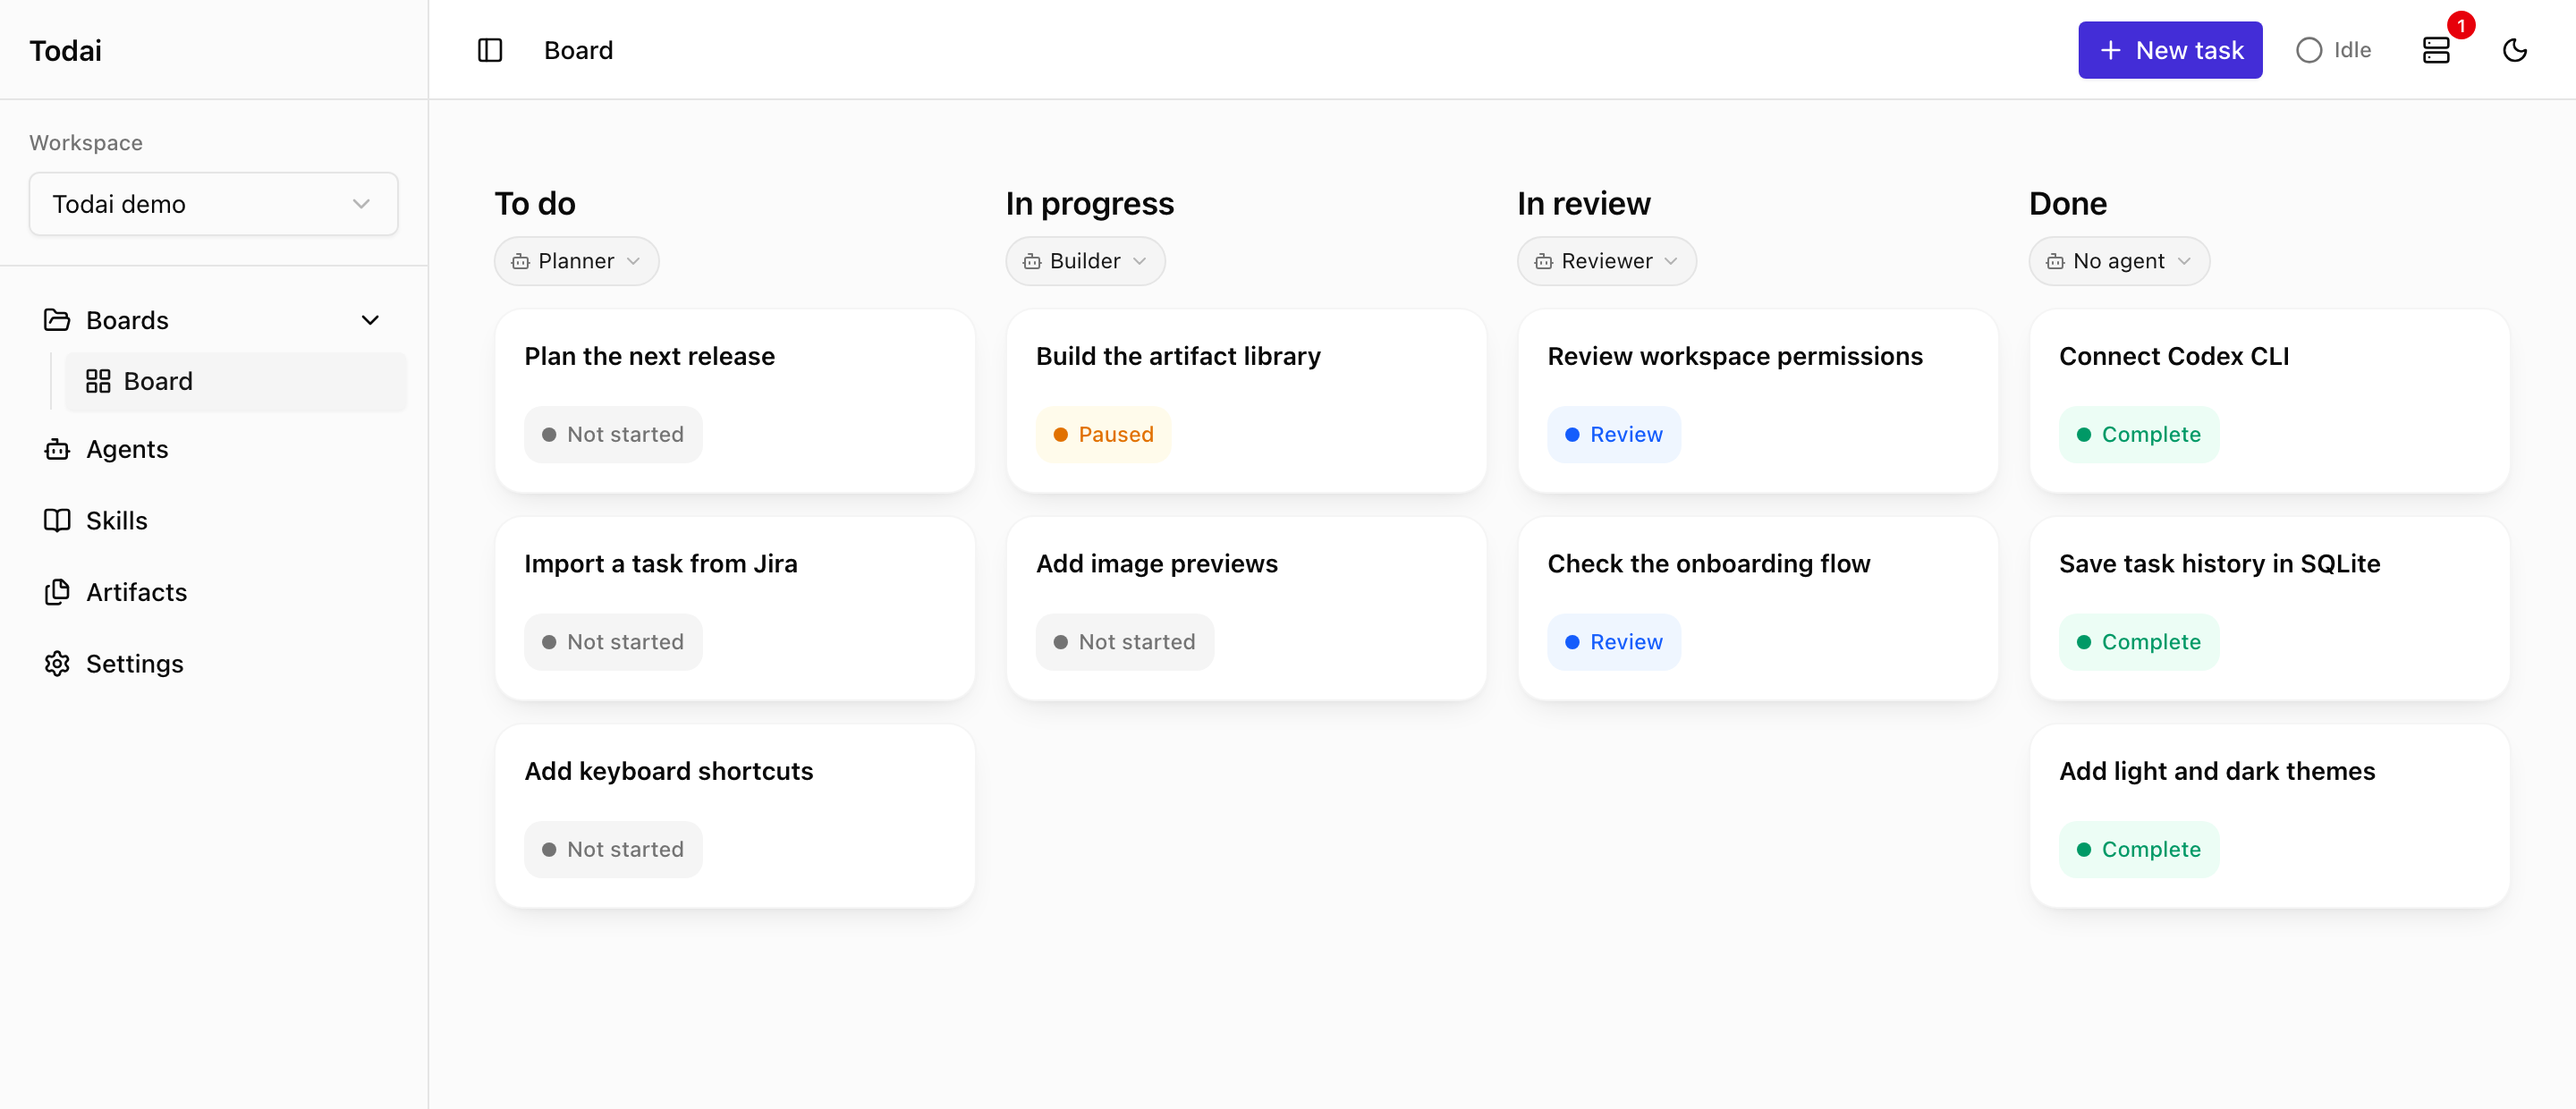
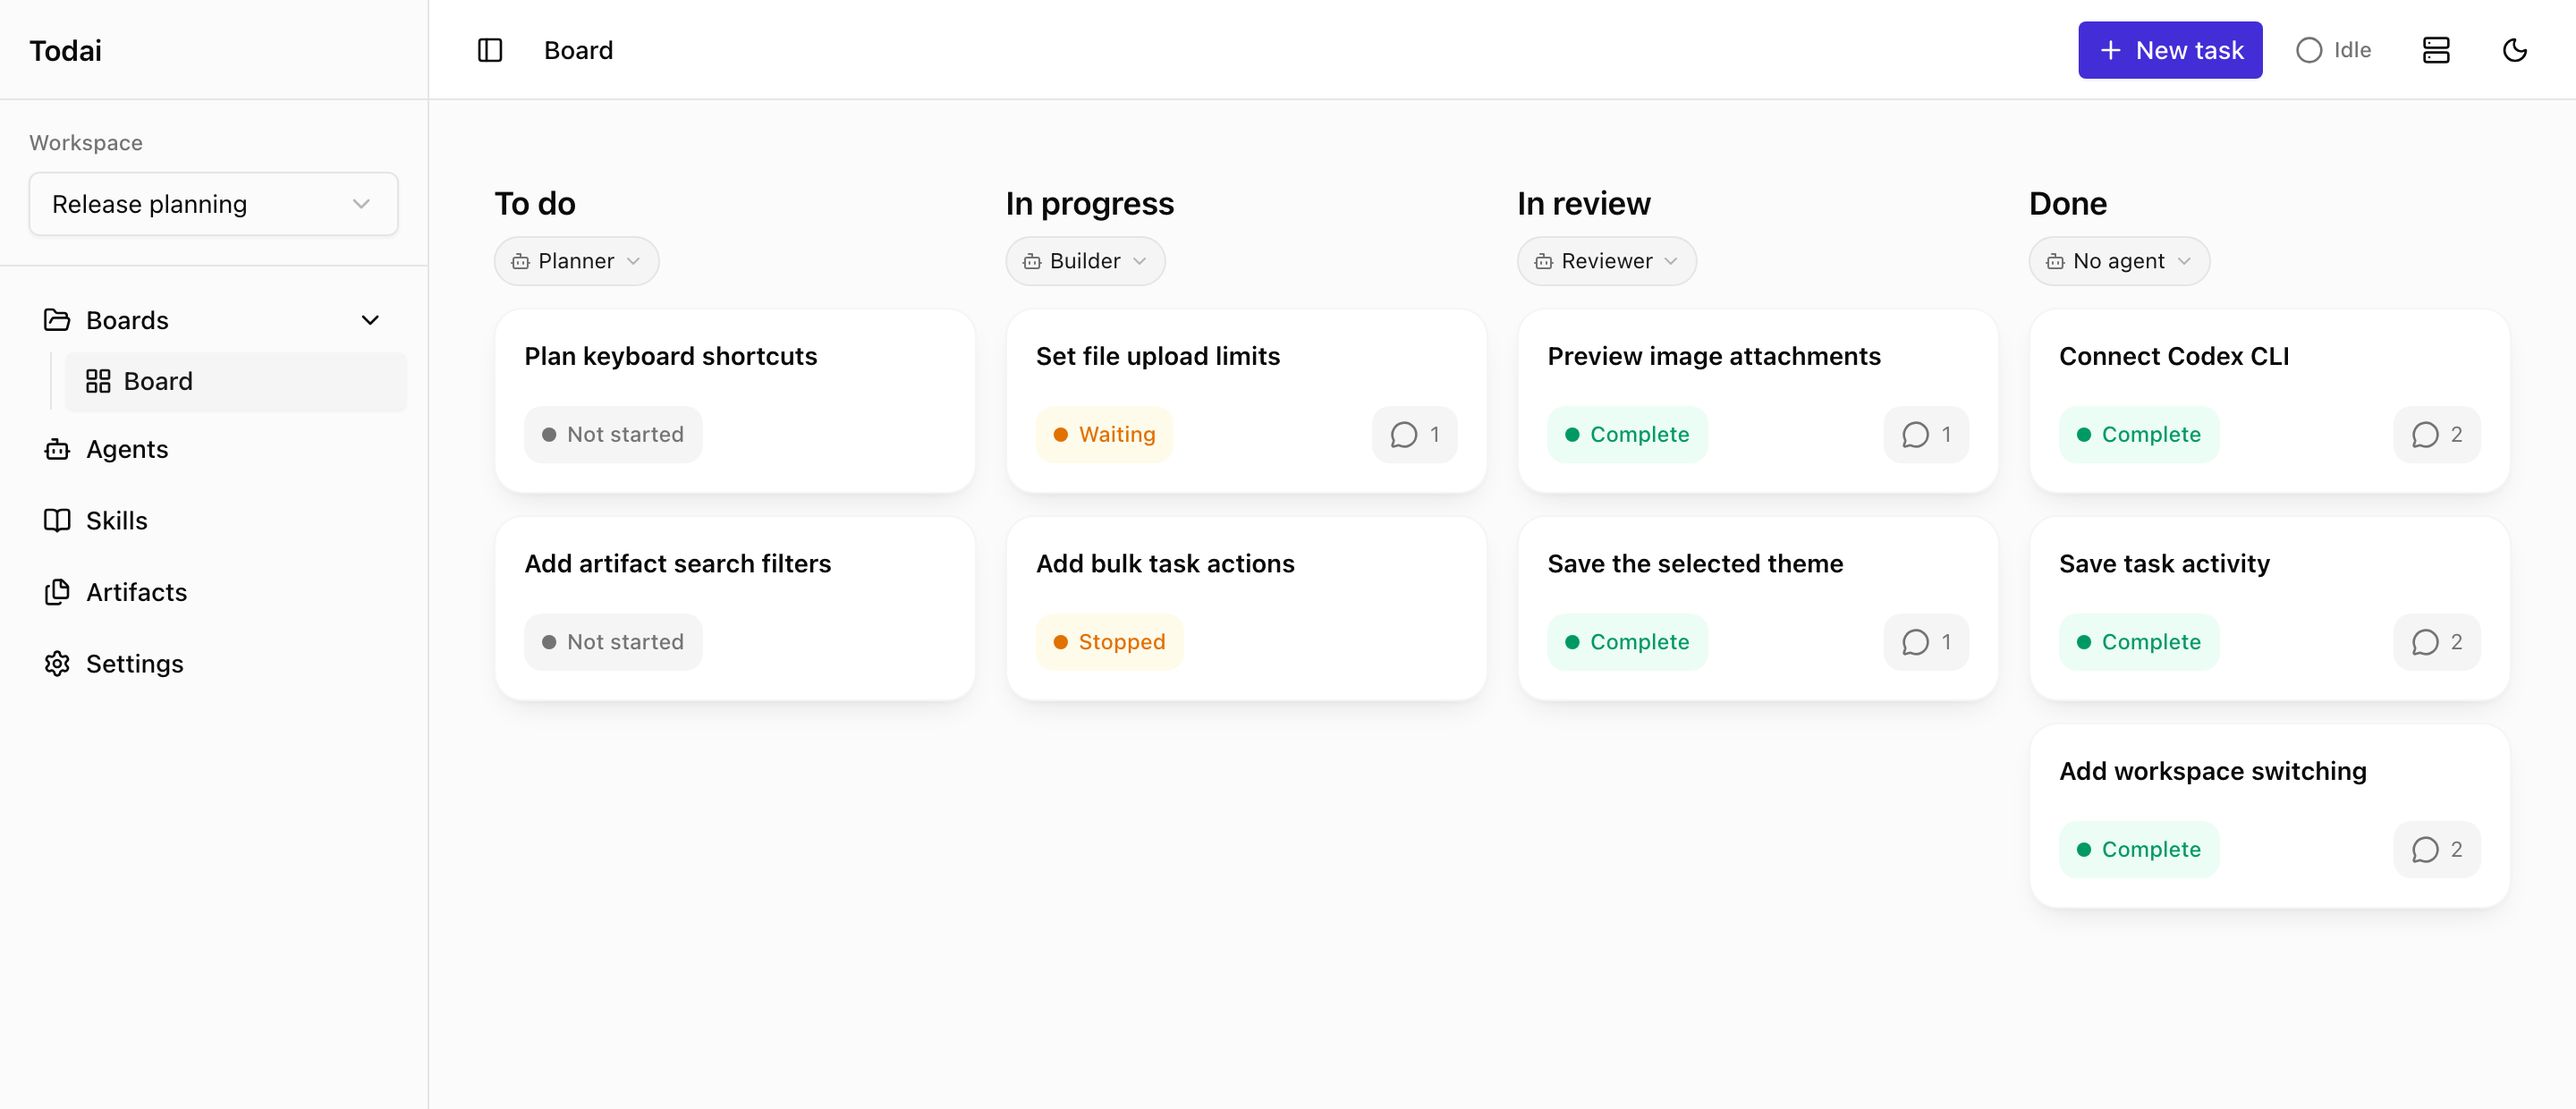
docs: define active task statuses and refresh board screenshot

diff --git a/docs/user-guide.md b/docs/user-guide.md
@@ -24,6 +24,49 @@ Use **Archive this workspace** in Settings when it has no running or queued jobs
 
 Agents run one at a time. Keep the server running while they work. Todai is designed for a persistent local Node.js process on macOS or Linux.
 
+## Task statuses
+
+A task has two separate status fields:
+
+- **Board status** (`status`) selects the workflow column. Default columns are **To do**, **In progress**, **In review**, and **Done**.
+- **Agent status** (`agentStatus`) supplies the task badge. Todai sets this field from execution events.
+
+Column names are configurable. Moving a task into **In review** does not create a separate agent status.
+
+### Active agent statuses
+
+| Badge | When Todai sets it | What to do next |
+| :--- | :--- | :--- |
+| **Not started** | A task is created, or its execution state is reset without a queued run. | Assign a column agent, then select **Run** when ready. |
+| **Queued** | A run is requested and has not started. | Keep the server running. Resume the queue if it is paused. |
+| **Running** | The executor claims a queued run. | Follow the task, or stop the run if necessary. |
+| **Complete** | A run finishes successfully, with no pending feedback or queued follow-up run for the task. | Read the result and decide whether to continue the workflow. |
+| **Waiting** | An agent requests feedback, or the task still has a pending feedback request. | Answer the request in **Activity** to queue the continuation. |
+| **Failed** | A run fails, with no pending feedback or queued follow-up run taking precedence. | Read the error, correct the cause, and retry when ready. |
+| **Interrupted** | A run is interrupted, such as after a column move or an app shutdown. | Check the saved work before starting another run. |
+| **Stopped** | You stop a running task or cancel its queued run. Removing a pending feedback request can also set this badge. | Select **Run again** when ready to continue the task. |
+
+**Complete describes a run, not the whole task.** A successful build can move a task to **In review** while its badge remains **Complete**.
+The next agent starts only when you select **Run**, unless **Auto-run** is enabled.
+Moving a task can preserve its previous completion or failure badge.
+
+**Queue pause is a separate control.** Pausing the queue does not assign a new task badge.
+Queued tasks remain queued until execution can continue.
+The header shows the queue state across workspaces; each card shows its own agent status.
+
+### Screenshot example
+
+The README screenshot shows a sample release board with no active run:
+
+- Planned tasks have not started.
+- One implementation task needs feedback; another was stopped before execution.
+- Completed builds are in **In review**, ready for the reviewer.
+- Reviewed tasks are in **Done** with completed runs.
+
+For documentation screenshots, use a separate sample database and the normal task execution transitions.
+Use only the active badges listed above. Keep the header, task badges, run records, and feedback requests consistent.
+Do not assign badge values directly in SQLite to create a screenshot.
+
 ## Data and configuration
 
 Data is stored in `.todai/tasks.sqlite`. Set `TODAI_DB_PATH` to use another database file. Preserve the database to keep your tasks, profiles, settings, and run history across restarts.

diff --git a/README.md b/README.md
@@ -15,7 +15,7 @@ Plan work, run Codex CLI or Claude Code, and review the results in one place.
 
 ![Todai in light mode, with a four-column task board, assigned agents, and task status badges.](docs/images/todai-board.png)
 
-<p align="center"><sub>The Todai board in light mode, shown with sample tasks.</sub></p>
+<p align="center"><sub>A sample release board in light mode: planned work, a feedback request, completed builds awaiting review, and finished tasks.</sub></p>
 
 ## ✨ Built for your workflow
 
@@ -96,6 +96,10 @@ Keep the Todai server running while agents work. Agents run one at a time.
 
 Columns and assignments are configurable. Each agent can use Codex CLI or Claude Code.
 Task comments and artifacts keep the context with the work.
+
+**Columns show workflow stages. Badges show agent execution.** A task in **In review** can show **Complete** after its build finishes.
+That badge does not mean the review or the whole task is complete.
+See the [status reference](docs/user-guide.md#task-statuses) for all active badges and their meanings.
 
 - **Ask an agent:** Type `@` in a comment to select agents. Requested replies run in order.
 - **Inspect a run:** Open the saved task’s **Activity** tab to read the agent’s comments and results.
